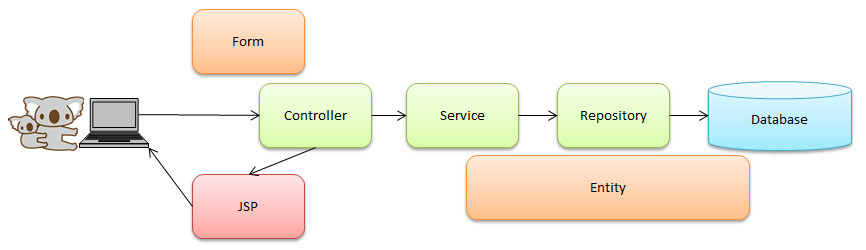
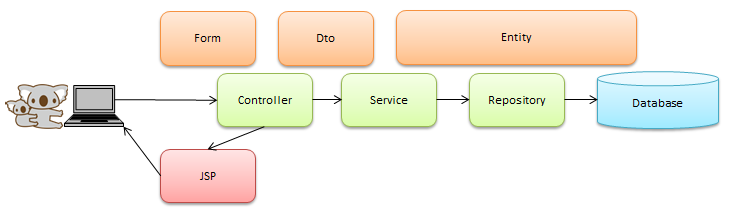
add Rest Controller.

diff --git a/src/main/java/demo/service/ProjectService.java b/src/main/java/demo/service/ProjectService.java
@@ -1,15 +1,18 @@
 package demo.service;
 
-import demo.entity.Member;
-import demo.entity.Project;
-import demo.repository.ProjectRepository;
+import java.util.ArrayList;
+import java.util.List;
+import java.util.stream.IntStream;
+
+import org.springframework.beans.BeanUtils;
 import org.springframework.beans.factory.annotation.Autowired;
 import org.springframework.stereotype.Service;
 import org.springframework.transaction.annotation.Transactional;
 
-import java.util.ArrayList;
-import java.util.List;
-import java.util.stream.IntStream;
+import demo.dto.ProjectDto;
+import demo.entity.Member;
+import demo.entity.Project;
+import demo.repository.ProjectRepository;
 
 @Service
 public class ProjectService {
@@ -25,6 +28,19 @@ public class ProjectService {
         list.forEach(System.out::println);
 
         memberService.find();
+    }
+
+    public List<ProjectDto> getList(){
+
+        List<ProjectDto> list = new ArrayList<>();
+
+        projectRepository.findAll().forEach(projectDto ->{
+            ProjectDto dto = new ProjectDto();
+            BeanUtils.copyProperties(projectDto, dto);
+            list.add(dto);
+        });
+
+        return list;
     }
 
     @Transactional

diff --git a/src/main/java/demo/controller/RestProjectController.java b/src/main/java/demo/controller/RestProjectController.java
@@ -1,0 +1,23 @@
+package demo.controller;
+
+import java.util.List;
+
+import org.springframework.beans.factory.annotation.Autowired;
+import org.springframework.web.bind.annotation.RequestMapping;
+import org.springframework.web.bind.annotation.RequestMethod;
+import org.springframework.web.bind.annotation.RestController;
+
+import demo.dto.ProjectDto;
+import demo.service.ProjectService;
+
+@RestController
+public class RestProjectController {
+
+	@Autowired
+	ProjectService projectService;
+
+	@RequestMapping(value = "/project", method = RequestMethod.GET)
+	public List<ProjectDto> getProjectList() {
+		return projectService.getList();
+	}
+}

diff --git a/src/main/java/demo/dto/ProjectDto.java b/src/main/java/demo/dto/ProjectDto.java
@@ -1,0 +1,10 @@
+package demo.dto;
+
+import lombok.Data;
+
+@Data
+public class ProjectDto {
+
+	private int id;
+    private String name;
+}
